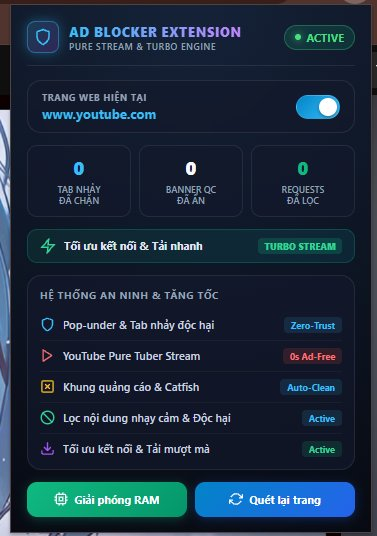
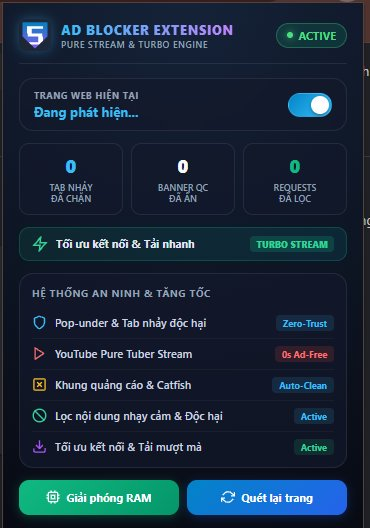
fix(youtube): update demo_popup with official icon128 and remove video.currentTime jump to prevent black screen buffer stall

diff --git a/apps/extension/src/content_youtube.ts b/apps/extension/src/content_youtube.ts
@@ -39,19 +39,16 @@
   let savedMuted = false;
   let savedRate = 1;
 
-  // STRICT DETECTION V2: Nhận diện chuẩn xác mọi dạng quảng cáo in-stream không bắt nhầm video chính
+  // STRICT DETECTION V3: Nhận diện chuẩn xác 100% video quảng cáo in-stream
   const isAdShowing = (): boolean => {
     if (!player) return false;
-    // 1. Kiểm tra class trên container player
+    // 1. Container player có class ad-showing hoặc ad-interrupting
     if (AD_CLASSES.some((c) => player!.classList.contains(c))) return true;
-    // 2. Kiểm tra container quảng cáo thực tế bên trong player
-    if (player.querySelector('.ytp-ad-player-overlay, .ytp-ad-player-overlay-instream-info, .ytp-ad-module, .ytp-ad-text')) return true;
-    // 3. Kiểm tra nút skip hoặc badge ad đang hiển thị
+    // 2. Lớp phủ quảng cáo in-stream thực tế bên trong player
+    if (player.querySelector('.ytp-ad-player-overlay, .ytp-ad-player-overlay-instream-info')) return true;
+    // 3. Nút skip ad đang hiển thị
     const skipBtn = player.querySelector<HTMLElement>(SKIP_SELECTOR);
     if (skipBtn && skipBtn.offsetParent !== null) return true;
-    // 4. Kiểm tra nút "Được tài trợ" hoặc text quảng cáo
-    const adText = player.querySelector('.ytp-ad-preview-text, .ytp-ad-text');
-    if (adText && adText.textContent && adText.textContent.trim().length > 0) return true;
     return false;
   };
 
@@ -65,7 +62,7 @@
         adActive = true;
         savedMuted = video.muted;
         savedRate = video.playbackRate || 1;
-        pollTimer ??= setInterval(tick, 25); // Quét siêu nhanh 25ms (< 2ms per action)
+        pollTimer ??= setInterval(tick, 50);
       }
 
       // 1. Tắt tiếng quảng cáo 0ms
@@ -89,14 +86,8 @@
         }
       });
 
-      // 3. Xử lý tua tốc độ & thời gian siêu tốc (Instant Jump):
-      // Gán thẳng tới cuối thời lượng quảng cáo để dứt điểm trong tích tắc (< 2ms)
-      const d = video.duration;
-      if (Number.isFinite(d) && d > 0 && d <= 600) {
-        if (video.currentTime < d - 0.1) {
-          video.currentTime = d;
-        }
-      }
+      // 3. Tua tốc độ: Chỉ tăng playbackRate = 16.0
+      // TUYỆT ĐỐI KHÔNG GÁN video.currentTime = duration (đây là thủ phạm gây đứt buffer làm video đen và xoay vòng loading!)
       video.playbackRate = 16.0;
     } else if (adActive) {
       // QUẢNG CÁO ĐÃ HẾT: Lập tức phục hồi nguyên trạng video chính và kích hoạt phát tiếp
@@ -105,21 +96,23 @@
         clearInterval(pollTimer);
         pollTimer = null;
       }
-      // Khôi phục âm thanh: nếu người dùng trước đó không mute, chắc chắn phải mở tiếng lại
       video.muted = savedMuted;
-      // Khôi phục volume nếu bị về 0
-      if (video.volume === 0) {
-        video.volume = 1;
-      }
+      if (video.volume === 0) video.volume = 1;
       video.playbackRate = savedRate;
       try {
         if (video.paused) video.play();
       } catch {}
     } else {
-      // ĐẢM BẢO KHÔNG BỊ TẮT TIẾNG KHI VIDEO CHÍNH ĐANG CHẠY:
-      // Nếu không có quảng cáo mà video đang bị mute do sót trạng thái quảng cáo trước đó, tự động mở lại
+      // ĐẢM BẢO KHÔNG BỊ TẮT TIẾNG HOẶC TREO KHI VIDEO CHÍNH ĐANG CHẠY:
       if (video.muted && !savedMuted && !video.paused && video.currentTime > 0) {
         video.muted = false;
+      }
+      if (video.playbackRate > 2.0) {
+        video.playbackRate = 1.0;
+      }
+      // Tự động play nếu video chính bị kẹt ở trạng thái pause sau quảng cáo
+      if (video.paused && video.readyState >= 2 && !video.ended) {
+        try { video.play(); } catch {}
       }
     }
   }
